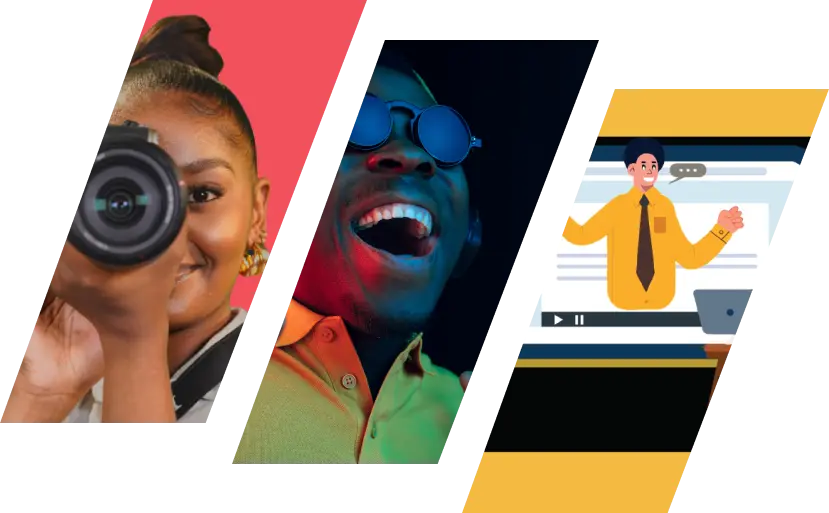
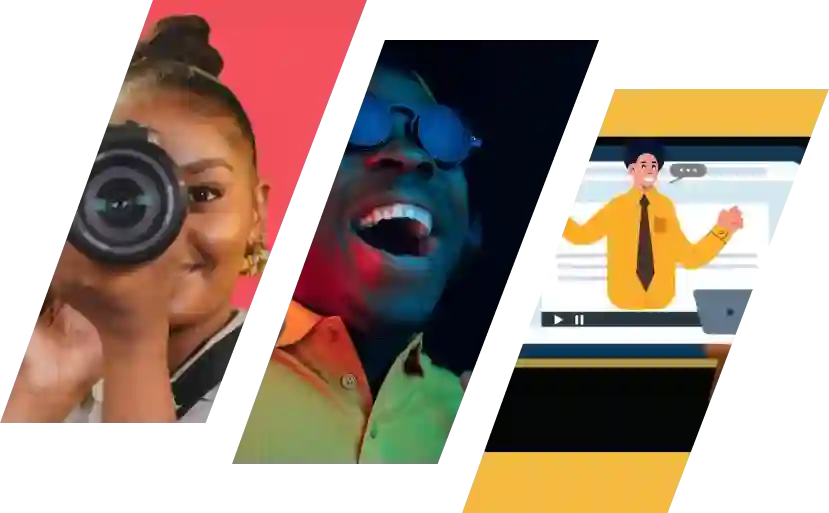
changes

diff --git a/public/themes/theme7/assets/css/style.css b/public/themes/theme7/assets/css/style.css
@@ -159,7 +159,7 @@ li.slide-item:hover .block-images{transform:scale(1.1);transform-origin:40% 50%;
 #iq-upcoming-movie .block-description {position: absolute; left:20px; top: 72px; bottom: 0;z-index: 999; display: flex; justify-content: center; flex-direction: column;  opacity: 0; }
 #iq-upcoming-movie .block-description > h6{font-size: 0.5em;}
 li.slide-item .block-images::before { position: absolute; content: ""; top: 0; bottom: 0; left: 0; right: 0; background: rgba(0, 0, 0, 0.8); width: 100%; height: 100%;opacity: 0;}
-li.slide-item:hover .block-images::before { opacity: 1; z-index: 9; }
+li.slide-item:hover .block-images::before { opacity: 0; z-index: 9; }
 .img-description{width: 100%; height: 78px; display:none; object-fit: cover;}
 li.slide-item:hover .img-description{width: 100%; display:block; opacity: 2; z-index: 999; object-fit: cover; position: absolute; top: 0;}
 li.slide-item:hover .img-description img{height: 70px; width: 100%; object-fit: cover;}

diff --git a/public/themes/theme5-nemisha/views/landing/index.blade.php b/public/themes/theme5-nemisha/views/landing/index.blade.php
@@ -1208,7 +1208,7 @@
     <header>
         <nav class="navbar navbar-expand-lg navbar-light navbar-fixed-top bg-light">
             <div class="container-fluid">
-                <img class="lazyload" src="<?php echo URL::to('/assets/img/nem-b.webp'); ?>" width="140" height="60">
+                <img class="lazyload" src="<?php echo URL::to('/assets/img/nem-b.webp'); ?>" alt="img" width="140" height="60">
                 <button class="navbar-toggler" type="button" data-toggle="collapse"
                     data-target="#navbarSupportedContent" aria-controls="navbarSupportedContent" aria-expanded="false"
                     aria-label="Toggle navigation">
@@ -1275,7 +1275,7 @@
                     </div>
 
                     <div class="col-lg-6 imk">
-                        <img class="img-lan w-100" src="<?php echo URL::to('/assets/img/v1.webp'); ?>" style="">
+                        <img class="img-lan lazyload" src="<?php echo URL::to('/assets/img/v1.webp'); ?>" width="555" heiht="343" style="">
                     </div>
                 </div>
             </div>
@@ -1289,7 +1289,7 @@
                         <div class="col-lg-6 p-0">
 
                             <video id="player" height="618" controls autoplay muted
-                                poster="<?php echo URL::to('/assets/img/lan/tv.webp'); ?>">
+                                poster="<?php //echo URL::to('/assets/img/lan/tv.webp'); ?>">
                                 <source src="<?php echo URL::to('/assets/img/Youthtech-2.mp4'); ?>"
                                     type="video/mp4">
                                 <source src="" type="video/ogg">
@@ -1758,7 +1758,7 @@
 
                 <div class="col-lg-7 vid">
                     <video id="player2" controls autoplay muted poster="<?php echo URL::to('/assets/img/dan.png'); ?>">
-                        <source src="<?php echo URL::to('/assets/img/Danc.mp4'); ?>" type="video/mp4">
+                        <source src="<?php echo URL::to('/assets/img/danc.mp4'); ?>" type="video/mp4">
                         <source src="" type="video/ogg">
                     </video>
 

diff --git a/public/themes/theme7/views/partials/home/continue-watching.blade.php b/public/themes/theme7/views/partials/home/continue-watching.blade.php
@@ -16,10 +16,11 @@
                             @foreach ($data as $key => $video_details)
                                 <li class="slide-item">
                                     <div class="block-images position-relative">
-                                        <a href="{{ URL::to('category/videos/'.$video_details->slug ) }}">
-                                            <div class="img-box">
+                                        <div class="img-box">
+                                            <a href="{{ URL::to('category/videos/'.$video_details->slug ) }}">
                                                 <img src="{{ $video_details->image ?  URL::to('public/uploads/images/'.$video_details->image) : default_vertical_image_url() }}" class="img-fluid" alt="">
-                                            </div>
+                                            </a>
+                                        </div>
                                     </div>
                                 </li>
                             @endforeach
